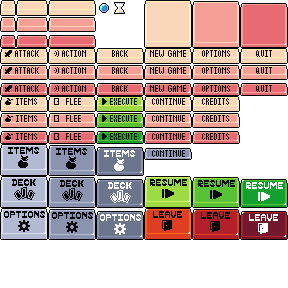
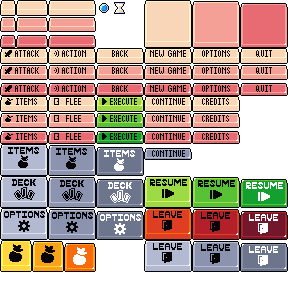
Updated shop button sprites

Changed region(s): [[0.5, 0.8125, 1.0, 0.9688], [0.0, 0.8125, 0.3438, 0.9688]]

diff --git a/demo/IShopScene.cpp b/demo/IShopScene.cpp
@@ -1,5 +1,6 @@
 #include "pch.h"
 #include "IShopScene.h"
+#include "IconButton.h"
 
 Demo::IShopScene::IShopScene(Game* game, Player* player, int sw, int sh, std::string title)
 	: IScene(sw, sh), game(game), player(player), uiCamera(sw, sh), shopTitle(title)
@@ -15,6 +16,8 @@ void Demo::IShopScene::Init()
 	backBufferTexture = std::make_shared<DX9GF::Texture>(game->GetGraphicsDevice());
 	backBufferTexture->CaptureCurrentBackBuffer();
 	backBufferSprite = std::make_shared<DX9GF::StaticSprite>(backBufferTexture.get());
+	uiSheetTex = std::make_shared<DX9GF::Texture>(game->GetGraphicsDevice()); 
+    uiSheetTex->LoadTexture(L"ui.png"); // load here
 	LoadItems();
 
 	BuildUI();
@@ -29,45 +32,47 @@ void Demo::IShopScene::BuildUI()
 	float rightPadding = sw * 0.12f;
 	float listStartY = sh * 0.28f;
 	float rowHeight = 70.0f;
-	float buyButtonW = 110.0f;
+	float buyButtonW = 64.0f; 
 	float buyButtonX = sw - rightPadding - buyButtonW;
 
 	for (size_t i = 0; i < itemsForSale.size(); ++i) {
 		auto item = itemsForSale[i];
 
-		auto buyBtn = std::make_shared<Demo::TextButton>(
+		auto buyBtn = std::make_shared<Demo::IconButton>(
 			transformManager,
-            buyButtonX, listStartY + (i * rowHeight), buyButtonW, 40,
-			"BUY",
-			myFont.get(),
-			[this, item](DX9GF::ITrigger* t) {
-				if (this->player->GetGold() >= item.cost) {
-					this->player->AddGold(-item.cost);
-
-					if (item.onBuyAction) {
-						item.onBuyAction();
-					}
-
-					this->ShowMessage("Bought " + item.name + "!");
-				}
-				else {
-					this->ShowMessage("Not enough gold!");
-				}
-			}
+            buyButtonX, listStartY + (i * rowHeight), 64, 64,
+			uiSheetTex, 3
 		);
+        buyBtn->SetSpriteCoords(0, 240, 32, 32, 0, false);
+		buyBtn->SetSpriteScale(2, 2);
+        buyBtn->SetOnReleaseLeft([this, item](DX9GF::ITrigger* t) {
+            if (this->player->GetGold() >= item.cost) {
+                this->player->AddGold(-item.cost);
+
+                if (item.onBuyAction) {
+                    item.onBuyAction();
+                }
+
+                this->ShowMessage("Bought " + item.name + "!");
+            }
+            else {
+                this->ShowMessage("Not enough gold!");
+            }
+        });
 		buyBtn->Init(&uiCamera);
 		uiButtons.push_back(buyBtn);
 	}
 
-	auto leaveBtn = std::make_shared<Demo::TextButton>(
+	auto leaveBtn = std::make_shared<Demo::IconButton>(
 		transformManager,
-        leftPadding, sh * 0.15f, 100, 40,
-		"LEAVE",
-		myFont.get(),
-		[this](DX9GF::ITrigger* t) {
-			this->shouldLeave = true;
-		}
+        leftPadding, sh * 0.15f, 96, 64,
+		uiSheetTex, 3
 	);
+    leaveBtn->SetSpriteCoords(144, 240, 48, 32, 0, false);
+    leaveBtn->SetSpriteScale(2, 2);
+    leaveBtn->SetOnReleaseLeft([this](DX9GF::ITrigger* t) {
+        this->shouldLeave = true;
+    });
 	leaveBtn->Init(&uiCamera);
 	uiButtons.push_back(leaveBtn);
 }
@@ -132,8 +137,10 @@ void Demo::IShopScene::Draw(unsigned long long deltaTime)
 			myFontSprite->Begin();
 			myFontSprite->SetPosition(sw - 170.0f, sh * 0.15f);
 			myFontSprite->SetColor(0xFFFFD700);
+			myFontSprite->SetScale(1.5f, 1.5f);
             myFontSprite->SetText(std::to_wstring(player->GetGold()) + L"G");
 			myFontSprite->Draw(uiCamera, deltaTime);
+			myFontSprite->SetScale(1.0f, 1.0f);
 
 			myFontSprite->SetColor(0xFFFFFFFF);
 			myFontSprite->SetText(std::wstring(shopTitle.begin(), shopTitle.end()));

diff --git a/demo/IShopScene.h b/demo/IShopScene.h
@@ -8,6 +8,7 @@
 #include <string>
 #include <vector>
 #include <functional>
+#include "IconButton.h"
 
 namespace Demo {
 	struct ShopItem {
@@ -37,6 +38,7 @@ namespace Demo {
 		float messageTimer = 0.0f;
 		std::string shopTitle; 
 		bool shouldLeave = false;
+        std::shared_ptr<DX9GF::Texture> uiSheetTex;
 
 		void BuildUI();
 
